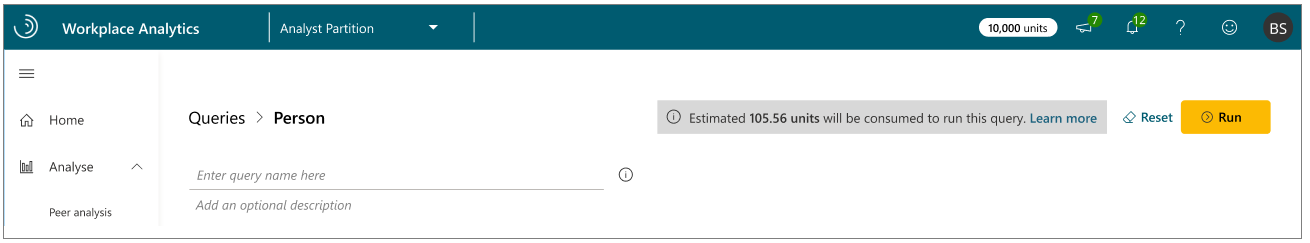
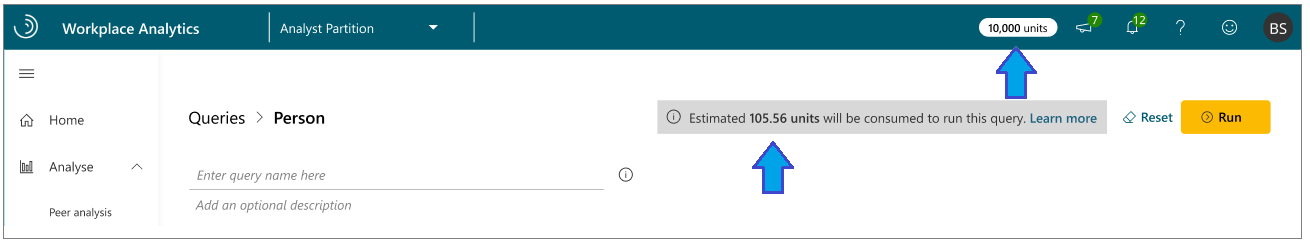
new image, edits

Changed region(s): [[0.5496, 0.5761, 0.6107, 0.8066], [0.7634, 0.2016, 0.7939, 0.4033]]

diff --git a/WorkplaceAnalytics/Tutorials/Query-basics.md b/WorkplaceAnalytics/Tutorials/Query-basics.md
@@ -38,7 +38,7 @@ Tenants subscribe to Workplace Analytics through one of the following billing mo
 
 Your tenant's choice of billing model affects the appearance and behavior of the pages for creating queries (such as [person queries](person-queries.md) and [meeting queries](meeting-queries.md)) and the [query results](../use/view-download-and-export-query-results.md) page. Analysts will see the following differences:
 
-### For analysts in PUPM tenants
+### For analysts in PUPM-model tenants
 
 The query-creation pages show analysts no information about query usage or tenant billing. This is because, in the PUPM model, the design and use of queries has no effect on the amount that your organization is billed. Billing charges accrue behind the scenes, independently of query usage:
 
@@ -46,13 +46,13 @@ The query-creation pages show analysts no information about query usage or tenan
 
 ### For analysts in consumption-model tenants
 
-In this model, there is no minimum monthly licensing cost for your organization; rather, all fees are based on the running of queries. Each query that you run consumes a number of "units," based on the following factors: the number of users being analyzed, the duration of the analysis, the number of base metrics in the query, and which base metrics are used. (Metrics are arranged into "price tiers"; metrics in higher price tiers cause more units to be consumed than metrics in lower price tiers. For more information, see [Consumption model details](#consumption-model-details).)
+In this model, there is no minimum monthly licensing cost for your organization; rather, all fees are based on the running of queries. Each query that you run consumes a number of "units," based on the following factors: the number of measured employees being analyzed, the number of weeks of data included in the query output for each measured employee, the number of base metrics in the query, and which base metrics are used. (Metrics are arranged into "price tiers"; metrics in higher price tiers consume more units than metrics in lower price tiers. For more information, see [Consumption model details](#consumption-model-details).)
 
-As you design a query, Workplace Analytics uses these factors to calculate the cost of the query. A query-cost estimator shows the estimated number of units that the query &ndash; in its current state &ndash; would consume. This number is updated as you edit the query:
+As you design a query, Workplace Analytics uses these factors to calculate the cost of the query. Within the query editor, you can see the estimated number of units that the query &ndash; in its current state &ndash; would consume. This number is updated as you edit the query:
 
 ![units per query](../images/wpa/tutorials/conmod-credits-2.png)
 
-Above the query-cost estimator, a field shows the unit balance &ndash; namely, how many units remain in your tenant's account. Analysts can continue to run queries as long as this balance remains above zero units.
+In the bar above the estimated query cost, you can see how many units remain in your tenant's account. Analysts can continue to run queries as long as this balance remains above zero units.
 
 #### Consumption model details
 
@@ -72,7 +72,7 @@ In a consumption-model tenant, queries consume "units" as they are run. Unit cal
 | ---- | ------------ | -------------- |
 | 1    | Most Workplace Analytics metrics &ndash; for example, collaboration hours, internal network size, low quality meeting hours, and 65 other basic metrics | 1.25 |
 | 2    | Advanced Workplace Analytics metrics &ndash; There is only one in this category: the _Influence_ metric. | 2.25 |
-| 3    | Workplace Analytics Insights metrics with [CRM data](crm-queries.md) &ndash; namely, external-facing metrics that calculate across CRM contacts | 6.00 |
+| 3    | Workplace Analytics metrics with [CRM data](crm-queries.md) &ndash; namely, external-facing metrics that calculate across CRM contacts | 6.00 |
 
 <!-- Note that the price is calculated per 1000 user-weeks. -->
 
@@ -90,7 +90,7 @@ No additional units are charged for the following:
 
 The **Queries** > **Results** page shows additional information if the consumption model is in use at your tenant:
 
-* **PUPM tenants** &ndash; Analysts in a PUPM tenant can use the **Queries** > **Results** page as described in [View, download, and export query results](../use/view-download-and-export-query-results.md).
+* **PUPM-model tenants** &ndash; Analysts in a PUPM-model tenant can use the **Queries** > **Results** page as described in [View, download, and export query results](../use/view-download-and-export-query-results.md).
 
 * **Consumption-model tenants** &ndash; For analysts in a consumption-model tenant, the **Results** page shows additional information. On this page, the **Query Cost** column shows the number of units charged to each query. Select the ![More information](../images/wpa/tutorials/more-info-50.png) (more information) option to see the details of this charge, namely the number of users analyzed, the number of base metrics used, the price tier of each metric, and the analysis period:
 
